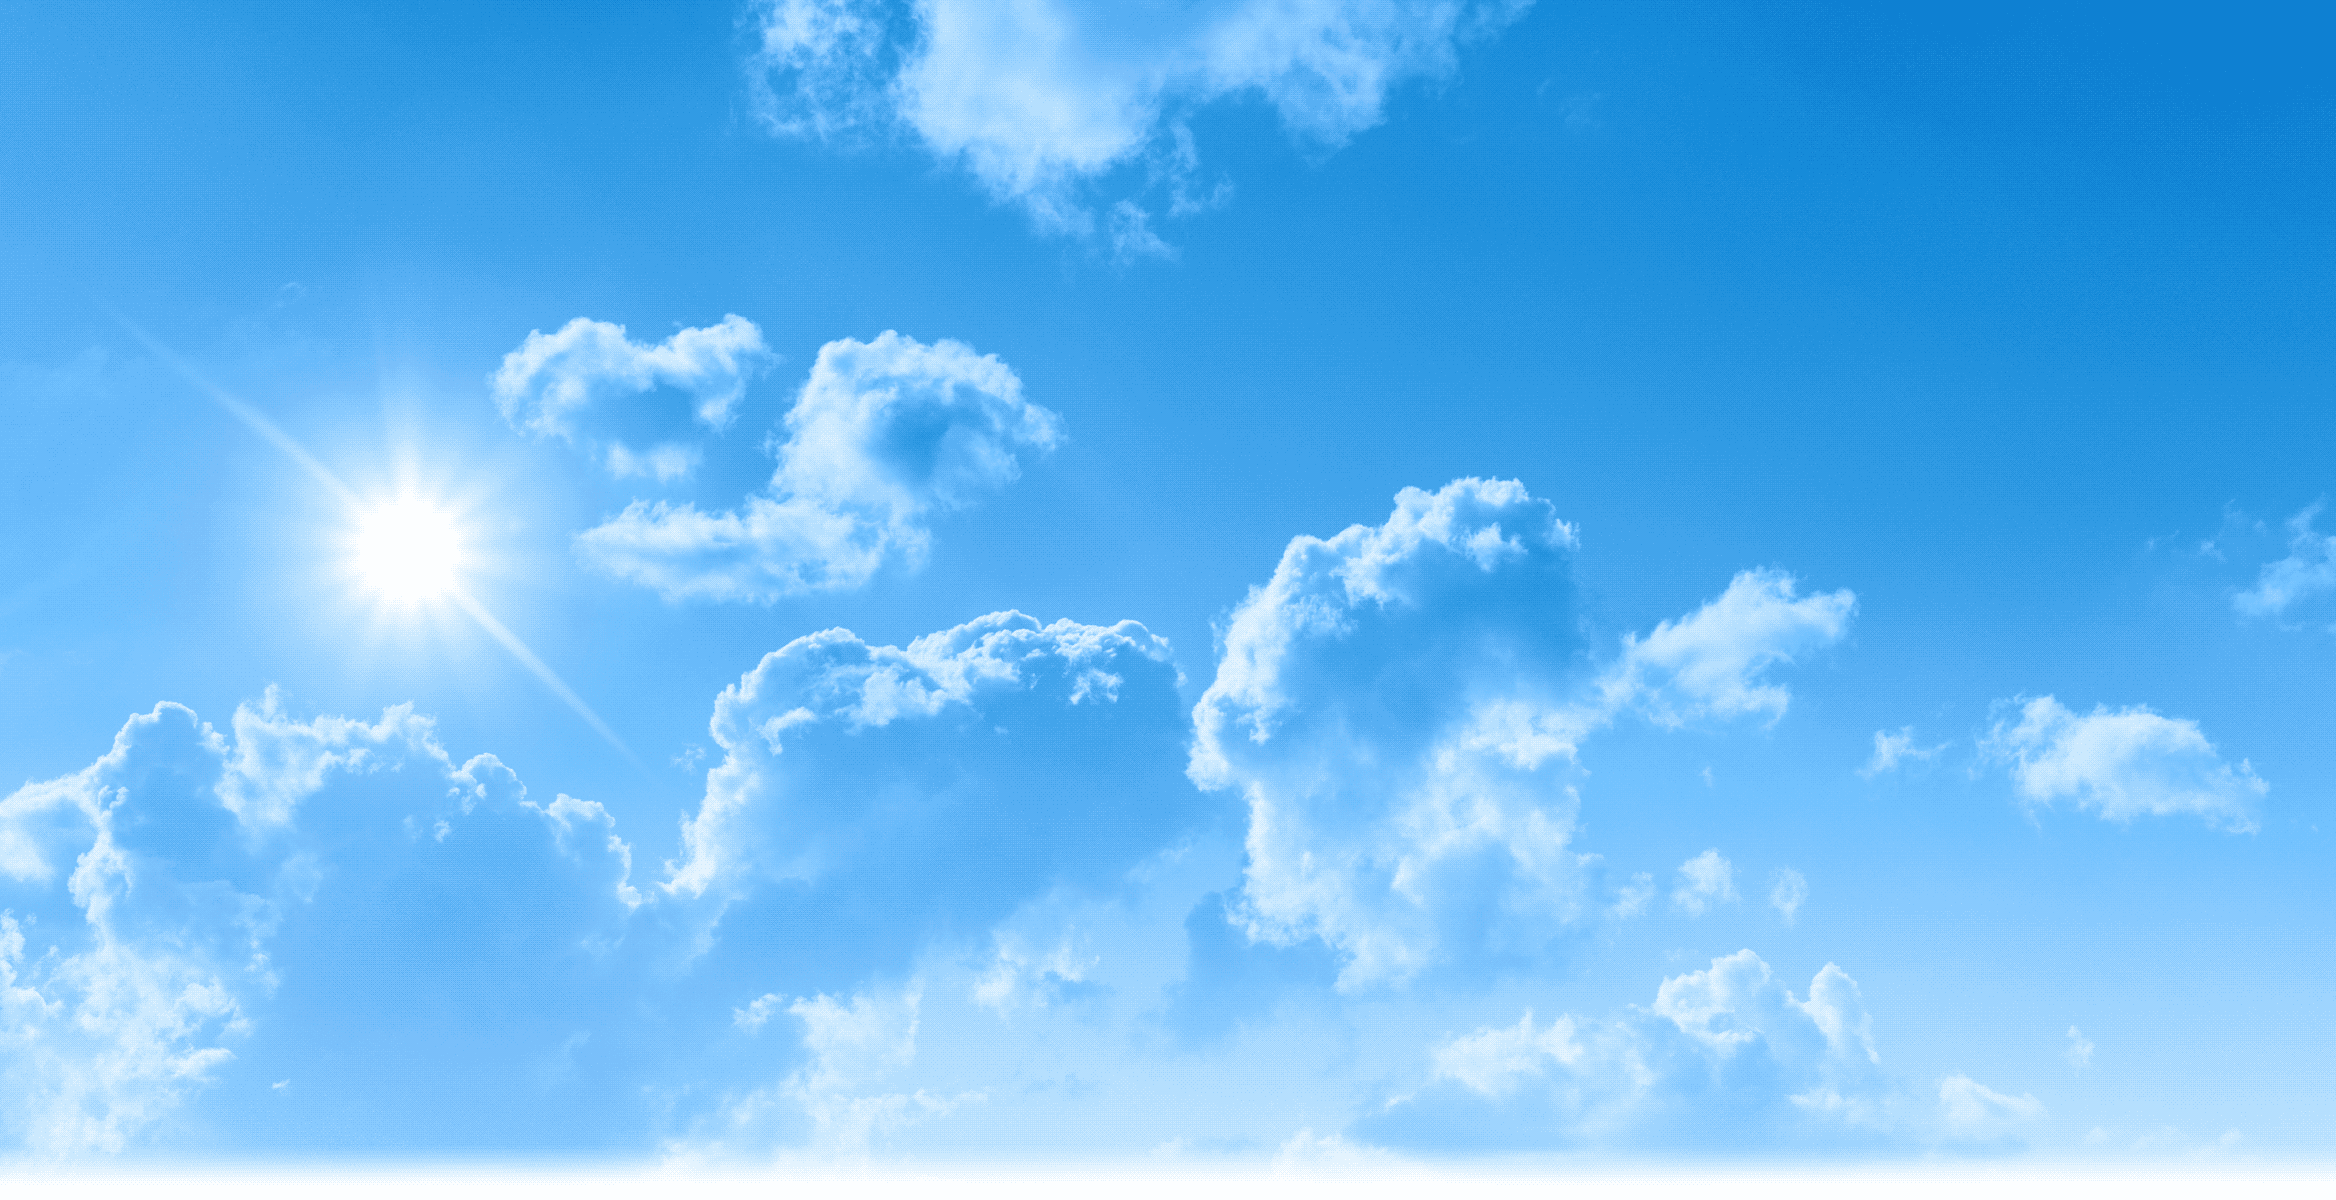
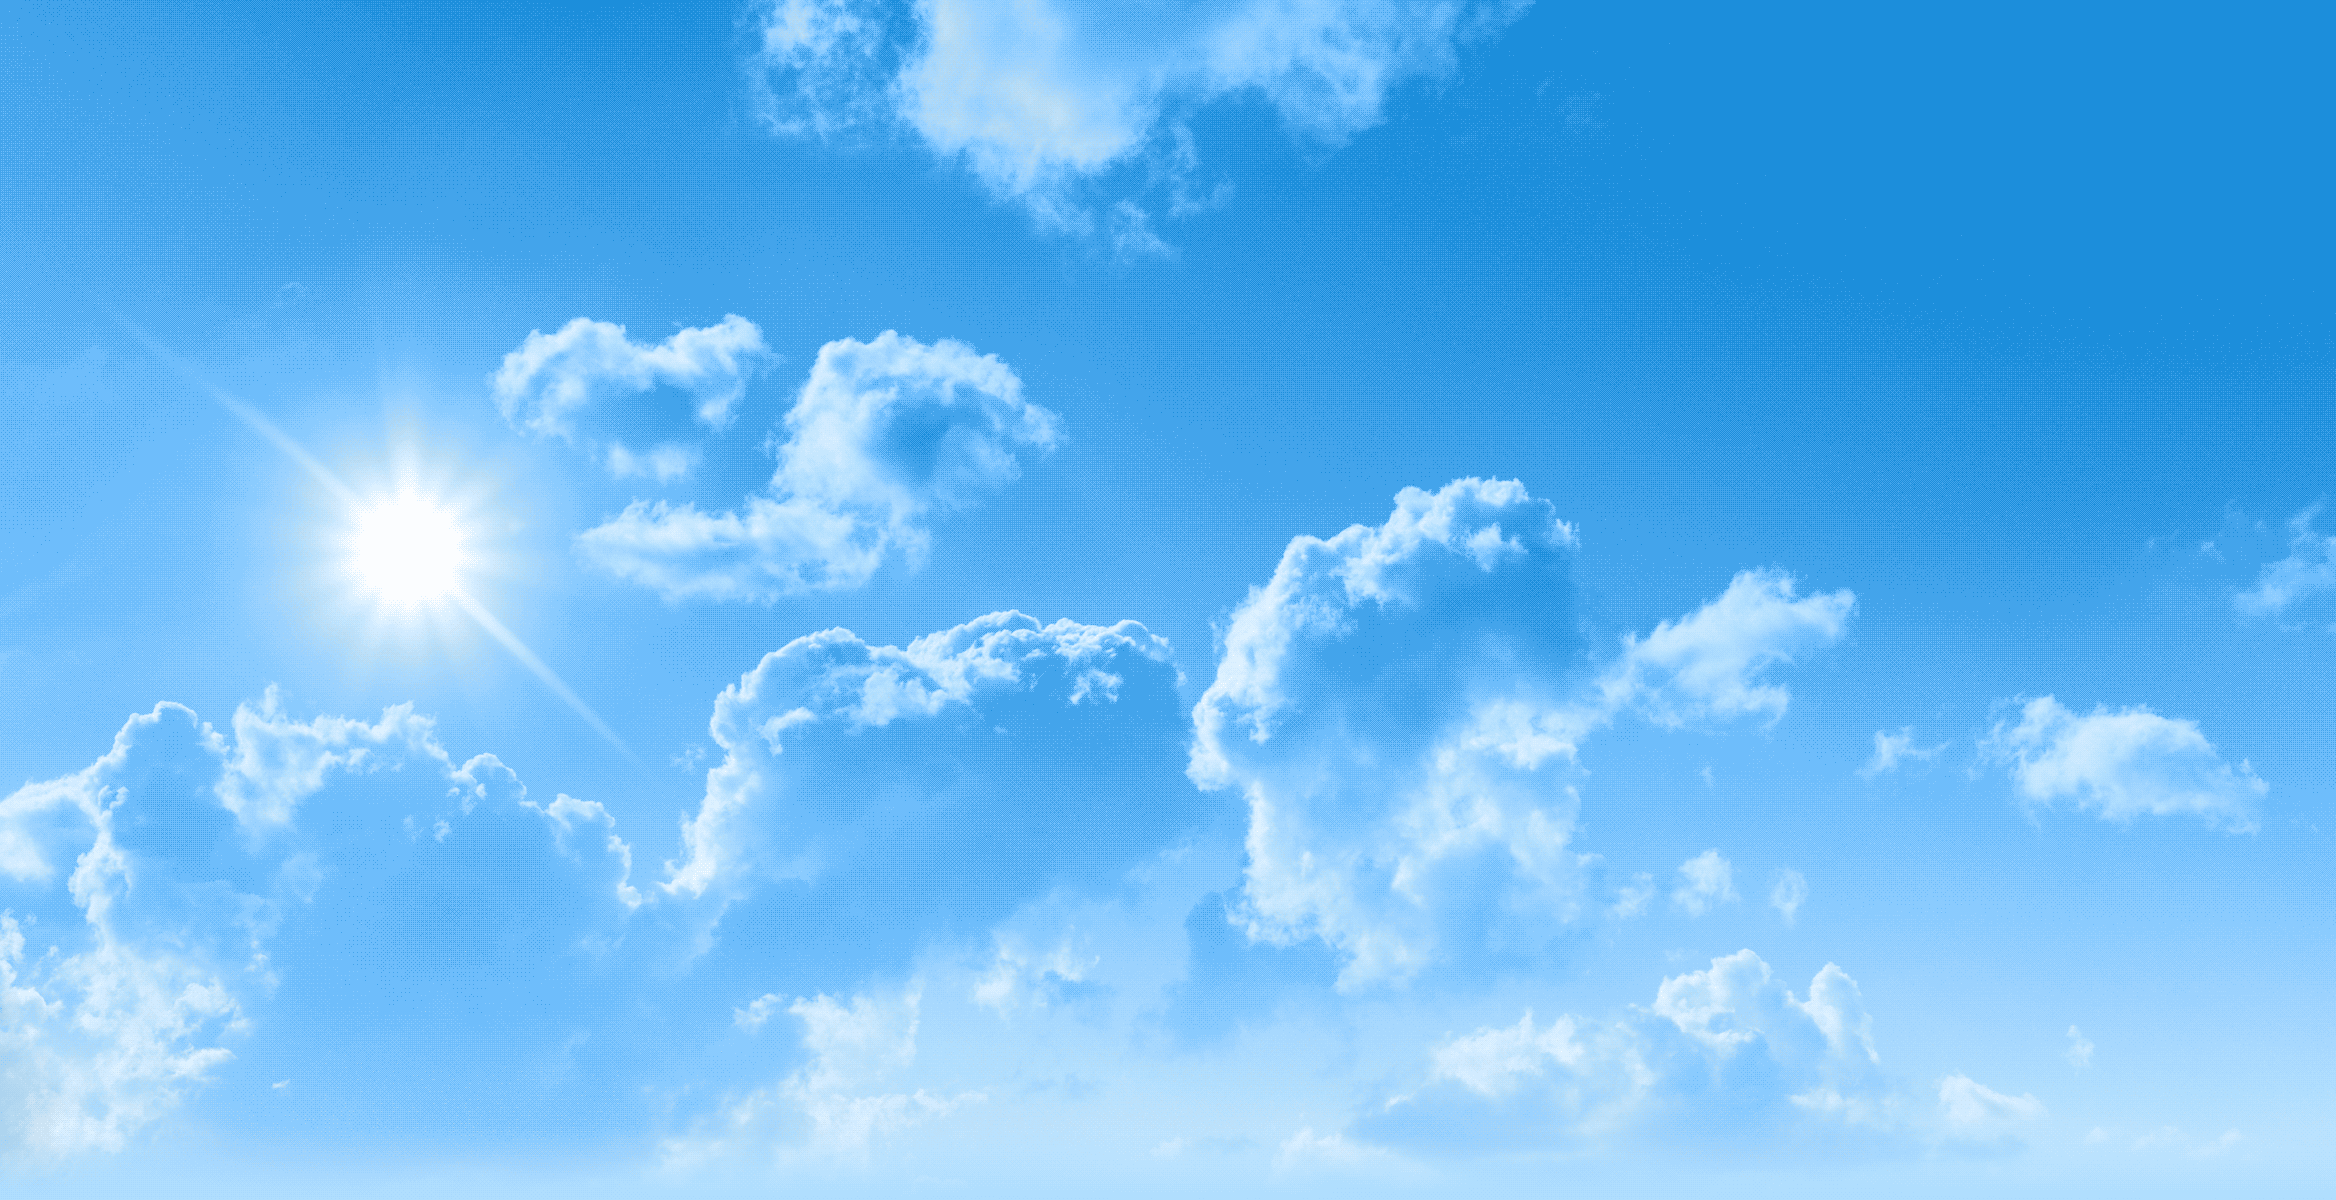
Adjusting cloud background and page background

diff --git a/wp-content/themes/CustomParallax/style.css b/wp-content/themes/CustomParallax/style.css
@@ -485,7 +485,7 @@ html {
 }
 
 body {
-	background: #ffffff;
+	background: #addeff;
 }
 
 /* =Typography
@@ -894,12 +894,12 @@ background: url(http://www.grovestreetumc.org/assets/prayer_banner1.jpg) repeat,
 }
 .page-header-top {
 	width:100%;
-	height:1000px;
+	height:1200px;
 	margin-top: -210px;
 /*  position: fixed;*/
   overflow: visible;
 background-image: url("http://www.grovestreetumc.org/assets/sky-clouds.png");
-  background-size: cover;
+  /*background-size: cover;*/
   z-index: -9999;
   position: absolute;
 }
